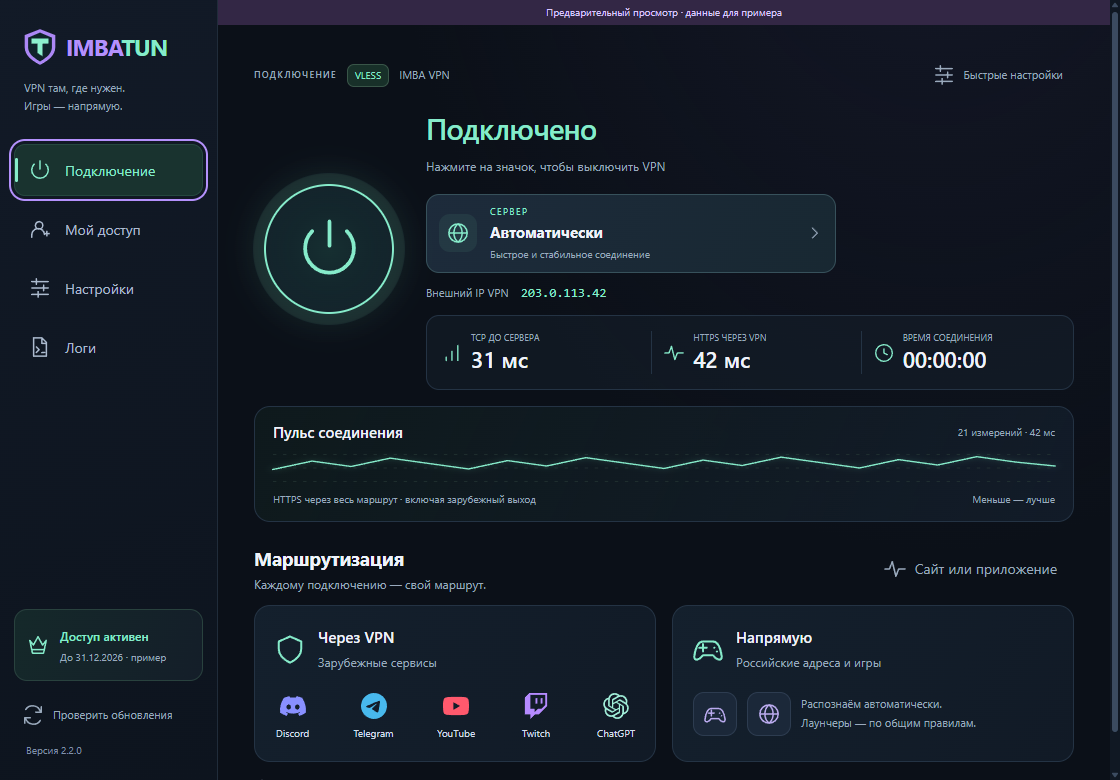
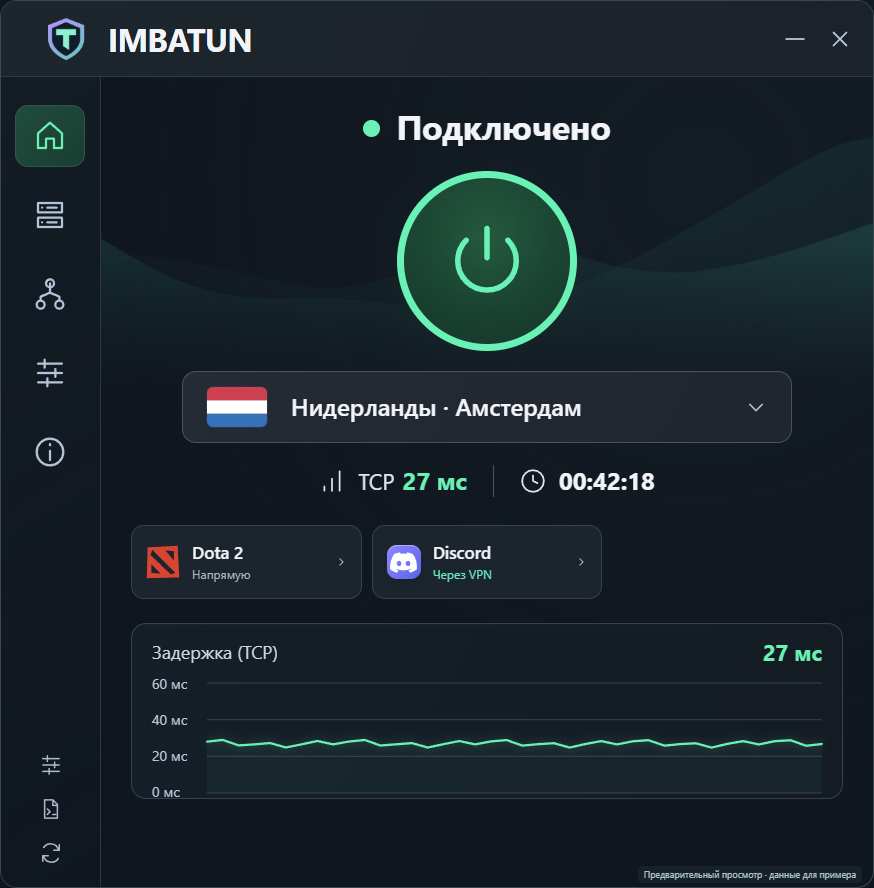
Publish IMBATUN 2.3.10 download links, release notes and current interface preview

diff --git a/README.md b/README.md
@@ -8,7 +8,7 @@
     <a href="https://github.com/array05/IMBATUN/releases/latest"><img src="https://img.shields.io/github/v/release/array05/IMBATUN?style=flat-square&color=b696ff&label=release" alt="Последняя версия"></a>
     <a href="https://t.me/imbavpn_bot"><img src="https://img.shields.io/badge/Telegram-IMBA%20VPN-7de8c2?style=flat-square" alt="Бот IMBA VPN"></a>
   </p>
-  <p><a href="https://imbatun.ru/"><strong>Сайт imbatun.ru</strong></a> &nbsp; · &nbsp; <a href="https://github.com/array05/IMBATUN/releases/download/v2.3.1/IMBATUN-2.3.1-Windows-x64.zip"><strong>↓ Скачать для Windows</strong></a> &nbsp; · &nbsp; <a href="https://t.me/imbavpn_bot">Получить доступ</a> &nbsp; · &nbsp; <a href="https://github.com/array05/IMBATUN/releases">Все выпуски</a></p>
+  <p><a href="https://imbatun.ru/"><strong>Сайт imbatun.ru</strong></a> &nbsp; · &nbsp; <a href="https://imbatun.ru/download"><strong>↓ Скачать для Windows</strong></a> &nbsp; · &nbsp; <a href="https://t.me/imbavpn_bot">Получить доступ</a> &nbsp; · &nbsp; <a href="https://github.com/array05/IMBATUN/releases">Все выпуски</a></p>
 </div>
 
 <p align="center">
@@ -45,25 +45,30 @@
 
 ## Начать за минуту
 
-1. **Скачайте** [IMBATUN для Windows](https://github.com/array05/IMBATUN/releases/download/v2.3.1/IMBATUN-2.3.1-Windows-x64.zip) и распакуйте архив целиком.
+1. **Скачайте** [IMBATUN для Windows](https://imbatun.ru/download) и распакуйте архив целиком.
 2. **Запустите `IMBATUN.exe`** из распакованной папки. Оставьте рядом папку `core` — она нужна для работы приложения.
 3. **Войдите через Telegram:** отсканируйте QR-код или откройте бота, выберите действующую VLESS-подписку и подтвердите вход.
 4. **Нажмите кнопку подключения.** Можно оставить «Автоматически» или выбрать нужную локацию.
 
 Нужны Windows 10/11 x64, .NET Framework 4.8 и права администратора для виртуального адаптера. Основной интерфейс использует Microsoft Edge WebView2 Runtime. Если он отсутствует или не запускается, автоматически откроется упрощённый интерфейс Windows с подключением, выбором сервера, настройками и диагностикой. Доступ оформляется в [боте IMBA VPN](https://t.me/imbavpn_bot).
 
+## Обновление 2.3.10
+
+- **Новый интерфейс:** мятное оформление, анимированные волны, понятный выбор локаций и компактные карточки запущенных приложений. Карточки переносятся на следующий ряд; Проводник и служебные окна скрыты.
+- **Настройки приложения по нажатию:** откройте карточку игры, браузера или мессенджера и выберите общий маршрут, напрямую или через VPN. Для игр можно отдельно отключить оверлей.
+- **Стабильнее во время игры:** обычное включение и выключение VPN сохраняет прямые соединения через работающий сетевой движок. После нескольких неудачных попыток восстановления IMBATUN ищет другой рабочий сервер.
+- **Помощь с Discord:** кнопка «Discord не открывается?» закрывает выбранный клиент, переносит временный кеш в резервную папку и запускает его заново. Вход и настройки сохраняются; восстановление начинается только после подтверждения.
+- **Меньше лишнего:** только серверы IMBA VPN, TCP-задержка в программе и оверлее, более компактная прозрачная игровая плашка. Исправлены диагностика VPN, рамка окна и отображение графика при нескольких рядах приложений.
+
+Сохранение прямых соединений зависит от работающего сетевого движка IMBATUN. Полная независимость игр от его аварийного завершения в эту версию не входит.
+
 ## Уже установлен IMBATUN?
 
-Нажмите **«Проверить обновления» → «Установить»** в приложении. IMBATUN скачает и проверит пакет, заменит файлы и перезапустится. Сохранённый вход и настройки остаются на месте.
+В версии **2.3.3 и новее** нажмите **«Проверить обновления» → «Установить»**. Программа проверит пакет, заменит файлы и перезапустится. Настройки и сохранённый вход остаются на месте. Обновляйтесь вне матча: установка перезапускает IMBATUN.
 
-В **2.3.1** исправлена обработка сетевых пакетов, из-за которой некоторые игры и приложения могли не подключаться к серверам даже при правильно настроенном маршруте. Исправление действует для подключения через VPN и напрямую.
+Если установлена **2.3.2 или более ранняя версия**, скачайте [актуальный Windows ZIP](https://imbatun.ru/download), полностью закройте старый IMBATUN и распакуйте архив целиком с заменой файлов. После перехода на новый сервис может понадобиться один раз подтвердить вход через Telegram. Настройки маршрутов сохраняются.
 
-В **2.3.0** добавлены настройки локальной сети и отдельных IP / подсетей (IPv4 и IPv6): напрямую или через VPN. Приложение для маршрута можно выбрать из запущенных процессов или указать `.exe`. В диагностику добавлена проверка IP. Правила для приложений и сайтов имеют приоритет над IP; среди подсетей применяется более точное правило.
-
-В обновление также входят изменения **2.2.1**: Xray 26.10.21 и sing-box 1.14.4 с исправлениями из официальных выпусков. Вход и настройки сохраняются. Изменения текущей и предыдущих версий собраны в [описании выпуска 2.3.1](https://github.com/array05/IMBATUN/releases/tag/v2.3.1).
-
-
-Публичные серверы предоставляет независимый проект [igareck/vpn-configs-for-russia](https://github.com/igareck/vpn-configs-for-russia). Они не входят в подписку IMBA VPN; авторство указано в приложении.
+Полное описание — в [выпуске 2.3.10](https://github.com/array05/IMBATUN/releases/tag/v2.3.10).
 
 ## Как идёт трафик
 
@@ -82,7 +87,7 @@
 
 ### Какой архив скачивать?
 
-В [последнем выпуске](https://github.com/array05/IMBATUN/releases/latest) откройте **Assets** и выберите **`IMBATUN-2.3.1-Windows-x64.zip`**. Это готовое приложение с EXE и необходимыми компонентами.
+В [последнем выпуске](https://github.com/array05/IMBATUN/releases/latest) откройте **Assets** и выберите **`IMBATUN-2.3.10-Windows-x64.zip`**. Это готовое приложение с EXE и необходимыми компонентами.
 
 **`Source code (zip)`**, **`Source code (tar.gz)`** и **Code → Download ZIP** — автоматические архивы содержимого репозитория. Здесь размещены документация и выпуски; исходный код оболочки IMBATUN не опубликован. Поэтому архив старого тега может содержать только README. Для установки используйте готовый Windows ZIP из Assets.
 
@@ -92,11 +97,11 @@
 
 ### Что означает задержка для RUS → NL / Finland?
 
-**«TCP до сервера»** — задержка TCP-соединения от компьютера напрямую до входного сервера. **«HTTPS через VPN»** — HTTPS-запрос через всю цепочку, включая зарубежный выход, до контрольного сайта. На главном экране оба замера показаны отдельно; в оверлее остаётся HTTPS-отклик полного маршрута. HTTPS включает установку HTTPS-соединения и не является ICMP-пингом выходного или игрового сервера.
+**«TCP до сервера»** — задержка TCP-соединения от компьютера напрямую до входного сервера. Для RUS → Finland это российский вход. Этот показатель отображается в программе и оверлее; он не является пингом игрового сервера. Работоспособность полного VPN-маршрута проверяется отдельно внутри программы.
 
 ### Почему VPN не переподключается сам?
 
-Включите **«Настройки» → «Восстанавливать соединение» → «Сохранить»**. При выключенной настройке повторные подключения не выполняются. Если сетевой процесс остановился, журнал версии 2.2.0 и новее сохраняет его тип и код завершения.
+Включите **«Настройки» → «Восстанавливать соединение» → «Сохранить»**. После нескольких неудачных попыток IMBATUN проверяет другие серверы и переключается на рабочий. При выключенной настройке повторные подключения не выполняются. Если сетевой процесс остановился, журнал версии 2.2.0 и новее сохраняет его тип и код завершения.
 
 ### Как проверить отдельный сайт или приложение?
 
@@ -121,4 +126,3 @@ Windows-клиент IMBATUN использует VLESS-доступ из бот
 IMBATUN использует [Xray-core](https://github.com/XTLS/Xray-core), [sing-box](https://github.com/SagerNet/sing-box), [Wintun](https://www.wintun.net/) и списки адресов [MetaCubeX](https://github.com/MetaCubeX/meta-rules-dat). Лицензии компонентов включены в Windows ZIP.
 
 <p align="center"><a href="https://imbatun.ru/">Сайт</a> · <a href="https://t.me/imbavpn_bot">Telegram</a> · <a href="https://github.com/array05/IMBATUN/releases/latest">Скачать</a> · <a href="https://github.com/array05/IMBATUN/issues">Сообщить о проблеме</a></p>
-
